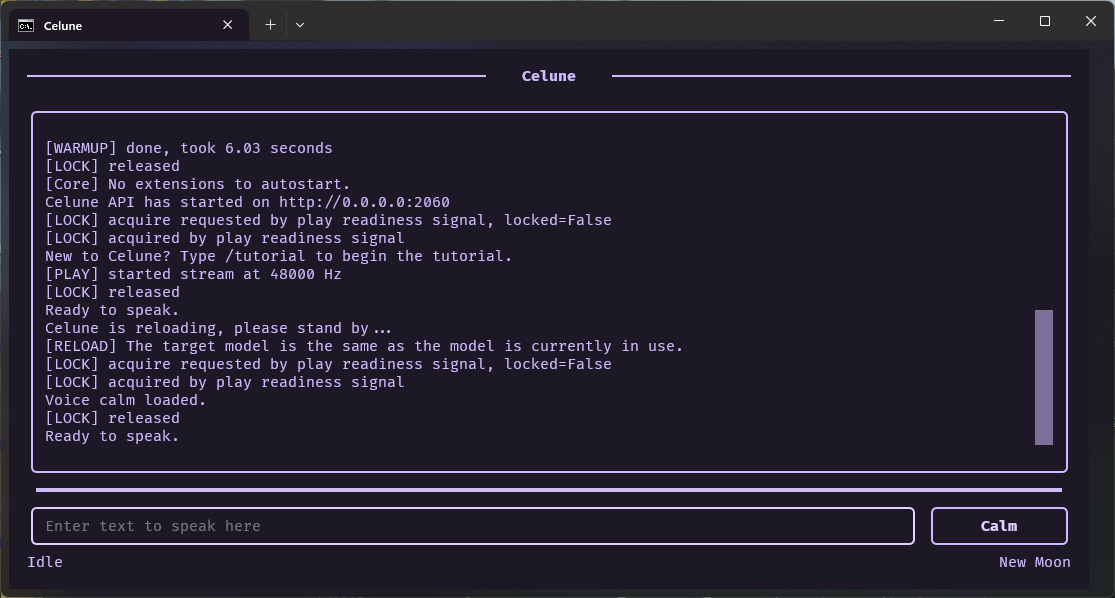
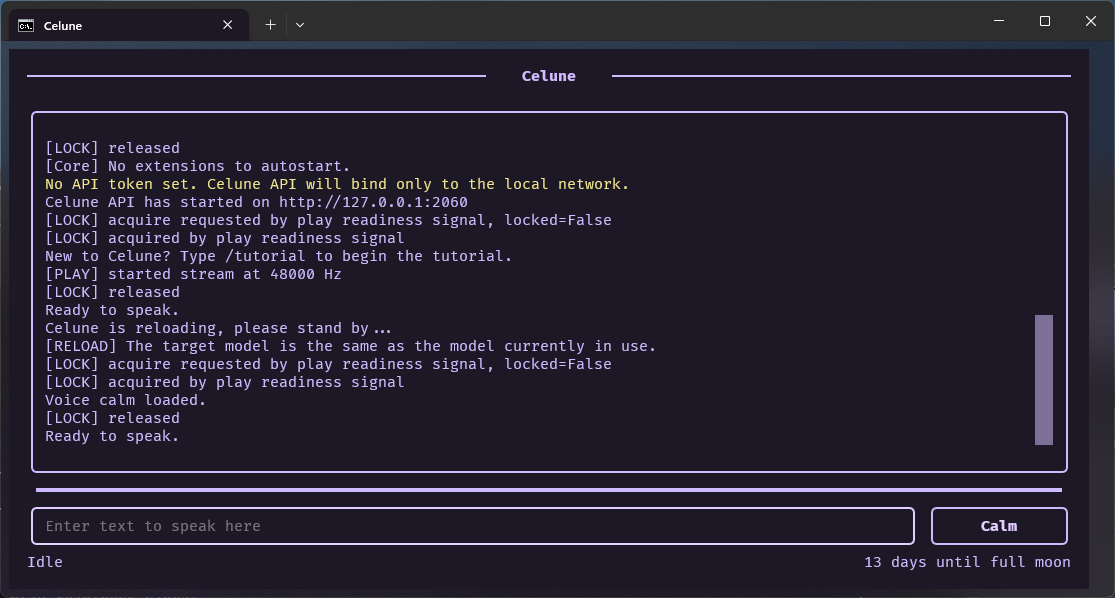
feat: allow seeds to be used in all backends

diff --git a/celune/backends/base.py b/celune/backends/base.py
@@ -5,12 +5,15 @@ from __future__ import annotations
 
 import os
 import glob
+import random
+import secrets
 import hashlib
 from abc import ABC, abstractmethod
 from typing import Any, Callable, Optional
 from collections.abc import Iterator
 from pathlib import Path
 
+import torch
 import numpy as np
 import numpy.typing as npt
 from huggingface_hub import snapshot_download
@@ -124,6 +127,19 @@ class CeluneBackend(ABC):
                     f"Checksum not found for '{name}', skipping checksum verification.",
                     "warning",
                 )
+
+    def _apply_seed(self) -> None:
+        """Seed all generation RNGs for the next backend operation."""
+        if self.random_seed:
+            self.current_seed = secrets.randbits(32)
+
+        if self.current_seed is None:
+            return
+
+        random.seed(self.current_seed)
+        np.random.seed(self.current_seed)
+        torch.cuda.manual_seed_all(self.current_seed)
+        torch.manual_seed(self.current_seed)
 
     @staticmethod
     @abstractmethod

diff --git a/celune/backends/voxcpm2.py b/celune/backends/voxcpm2.py
@@ -4,8 +4,6 @@
 from __future__ import annotations
 
 import os
-import random
-import secrets
 import contextlib
 from typing import Callable, Optional
 from collections.abc import Iterator
@@ -83,21 +81,7 @@ class VoxCPM2(CeluneBackend):
         super().__init__(log=log)
         self.log = log
         self.optimize_enabled = False
-        self.random_seed = True
         self._validate_refs()
-
-    def _apply_seed(self) -> None:
-        """Seed all generation RNGs for the next backend operation."""
-        if self.random_seed:
-            self.current_seed = secrets.randbits(32)
-
-        if self.current_seed is None:
-            return
-
-        random.seed(self.current_seed)
-        np.random.seed(self.current_seed)
-        torch.cuda.manual_seed_all(self.current_seed)
-        torch.manual_seed(self.current_seed)
 
     @staticmethod
     @contextlib.contextmanager

diff --git a/celune/ui/commands.py b/celune/ui/commands.py
@@ -149,7 +149,7 @@ def process_command(ui: CeluneUI, command: str, args: list[str]) -> None:
             "/play <file> - Play a sound effect by path. Only WAV files are supported."
         )
         ui.safe_log(
-            "/seed [seed|random] - Set or clear the seed for speech outputs (VoxCPM2 only)."
+            "/seed [seed|random] - Set or clear the seed for speech outputs, affecting pronunciation and/or prosody."
         )
         ui.safe_log("/tutorial - Run Celune's tutorial.")
         ui.safe_log("/stop - Terminate ongoing speech.")

diff --git a/celune/backends/qwen3.py b/celune/backends/qwen3.py
@@ -212,6 +212,7 @@ class Qwen3(CeluneBackend):
             raise ValueError("expected text to say")
 
         kwargs.setdefault("max_new_tokens", self.max_new_tokens)
+        self._apply_seed()
 
         # if faster_qwen3_tts >= 0.2.5 use instructions, else remove this arg
         major, minor, patch = (int(num) for num in qwen3_ver.split("."))